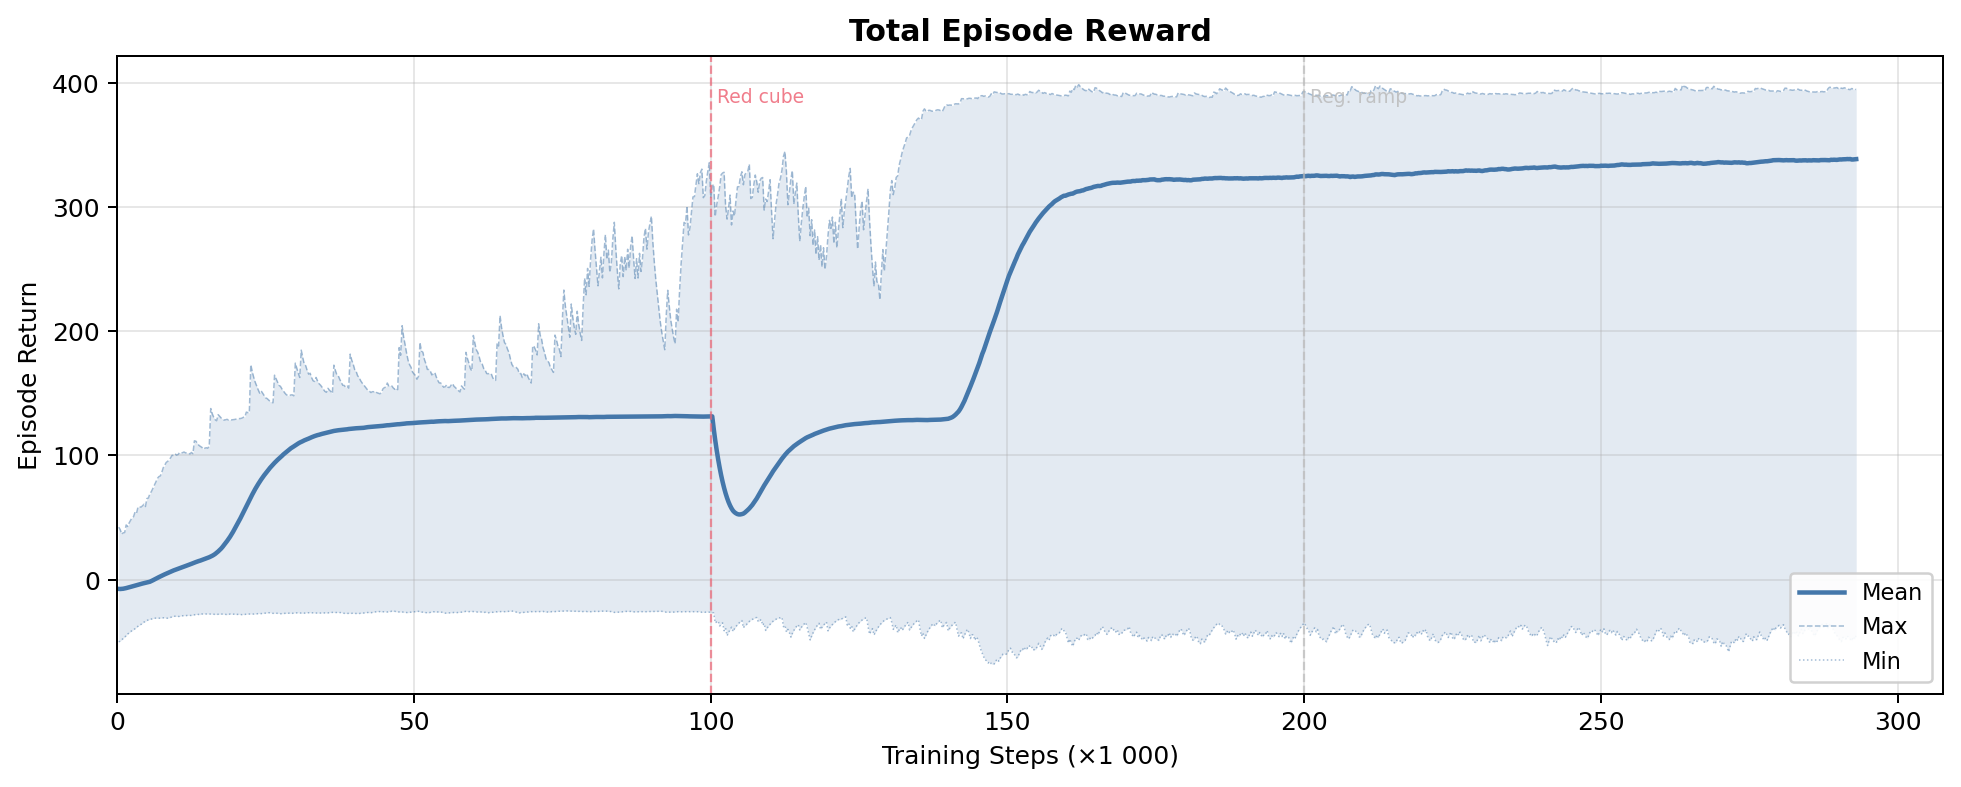
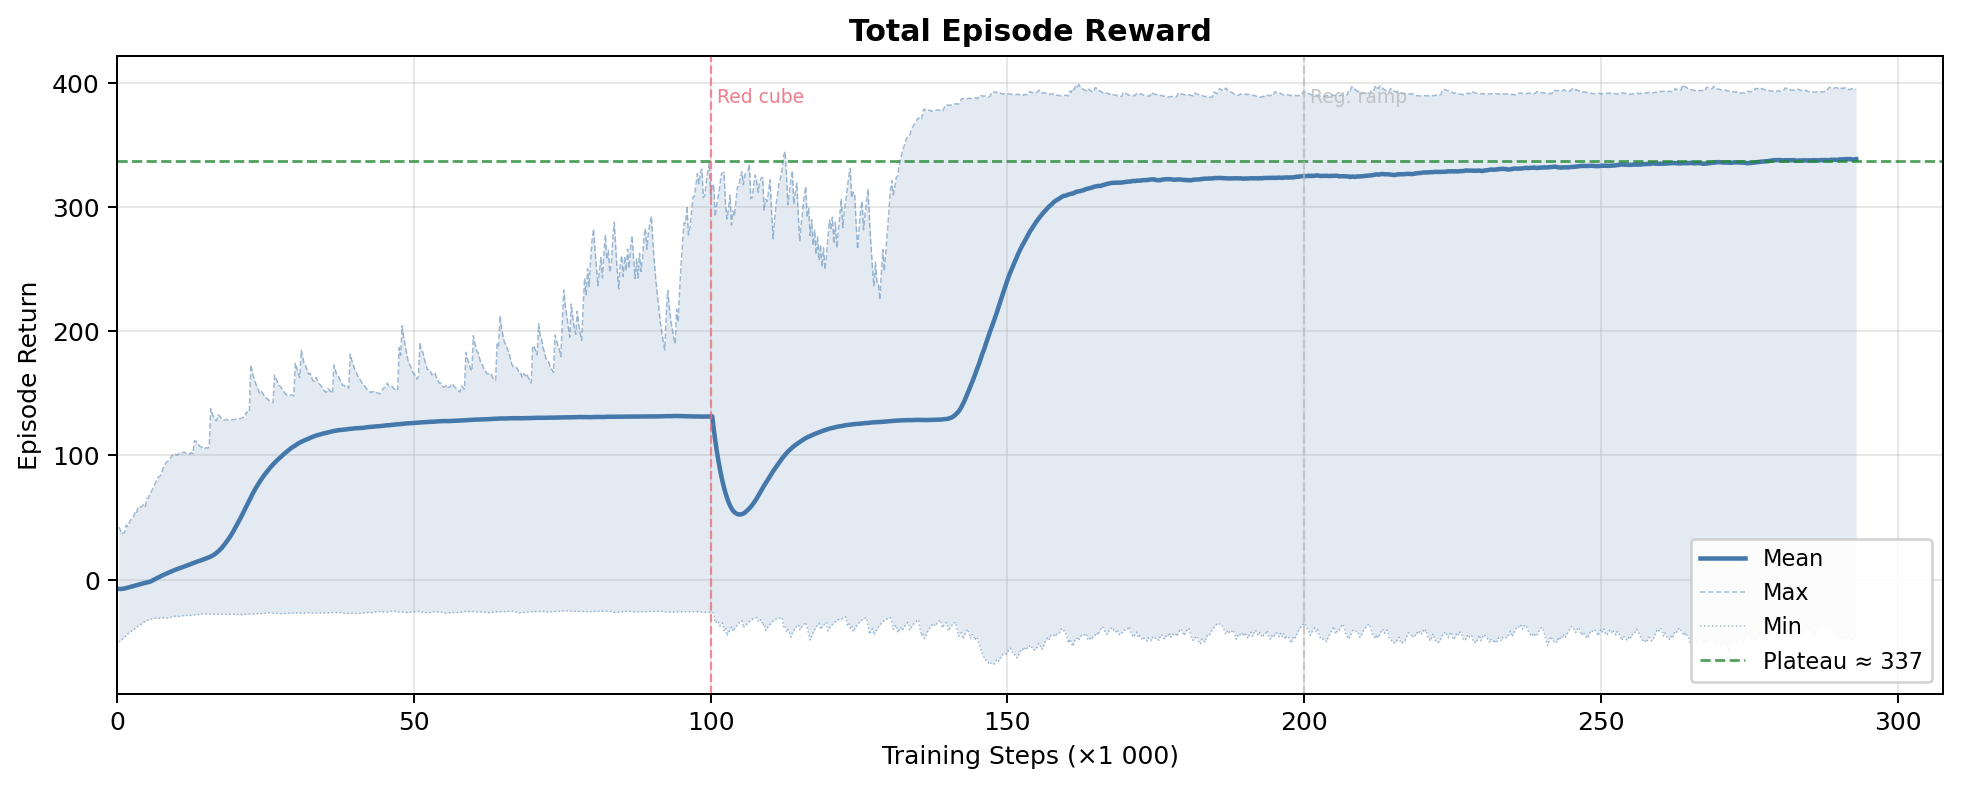
Enhance cube placement task: update metrics for TensorBoard, add episode length tracking, and implement placement success flag in environment

Changed region(s): [[0.8399, 0.6709, 0.9954, 0.8539], [0.871, 0.8539, 0.9021, 0.8844]]

diff --git a/src/tensegrity_pick/source/tensegrity_pick/tensegrity_pick/tasks/manager_based/cube_place/place_env.py b/src/tensegrity_pick/source/tensegrity_pick/tensegrity_pick/tasks/manager_based/cube_place/place_env.py
@@ -16,11 +16,12 @@ from isaaclab.envs import ManagerBasedRLEnv, ManagerBasedRLEnvCfg
 from isaaclab.utils.math import quat_apply
 
 from .place_scene_cfg import CONVEYOR_SURFACE_HEIGHT_M
-from .mdp.rewards import GRASP_CENTER_LOCAL_Z
+from .mdp.rewards import GRASP_CENTER_LOCAL_Z, BinCylinder, _in_upright_cylinder, _get_world_pos
 
 
 EE_BODY_CANDIDATES = ("tool_link_0", "robotiq_base_link", "end_effector_link")
 GREEN_CUBE_KEY = "green_cube"
+DRUM_KEY = "drum_target"
 FINGER_JOINT_NAME = "finger_joint"
 
 # Physics-based grasp detection thresholds
@@ -30,6 +31,9 @@ GRASP_PROXIMITY_THRESHOLD = 0.10
 GRASP_LIFT_THRESHOLD = 0.06
 GRASP_MIN_CLOSURE = 0.20  # ~25% of 0.7854; reject open-gripper bumps
 BELT_HEIGHT = CONVEYOR_SURFACE_HEIGHT_M
+
+# Drum geometry — must match _BIN_GEOM in place_env_cfg.py
+_DRUM_GEOM = BinCylinder(radius=0.547 * 0.5, height=0.30)
 
 
 class TensegrityPlaceEnv(ManagerBasedRLEnv):
@@ -52,6 +56,10 @@ class TensegrityPlaceEnv(ManagerBasedRLEnv):
         # this episode.  Prevents reward-hacking (pushing cube into drum
         # without grasping).
         self._was_grasped = torch.zeros(self.num_envs, dtype=torch.bool, device=self.device)
+
+        # Latched flag: True once the green cube entered the drum this episode
+        # (after a valid grasp).  Used as a per-episode binary placement metric.
+        self._was_placed = torch.zeros(self.num_envs, dtype=torch.bool, device=self.device)
 
     # ------------------------------------------------------------------
     # Grasp centre helper
@@ -94,18 +102,32 @@ class TensegrityPlaceEnv(ManagerBasedRLEnv):
         """Per-env bool: True once the cube has been grasped this episode."""
         return self._was_grasped
 
+    @property
+    def was_placed(self) -> torch.Tensor:
+        """Per-env bool: True once the green cube entered the drum this episode."""
+        return self._was_placed
+
+    def _green_in_drum(self) -> torch.Tensor:
+        """Per-env bool: True when the green cube is currently inside the drum."""
+        green = self.scene[GREEN_CUBE_KEY]
+        drum_pos = _get_world_pos(self.scene[DRUM_KEY], env=self)
+        return _in_upright_cylinder(green.data.root_pos_w, drum_pos, _DRUM_GEOM)
+
     # ------------------------------------------------------------------
-    # Override _step_impl to update latched grasp flag
+    # Override _step_impl to update latched flags
     # ------------------------------------------------------------------
 
     def step(self, action: torch.Tensor):
-        """Standard step with grasp-latch update after physics."""
+        """Standard step with grasp- and place-latch update after physics."""
         obs, reward, terminated, time_outs, extras = super().step(action)
-        # Update latched grasp flag only for envs that are still running.
+        # Update latched flags only for envs that are still running.
         # Terminated/timed-out envs have already been reset inside
         # super().step(), so their post-reset state must not re-latch.
         still_running = ~(terminated | time_outs)
         self._was_grasped[still_running] |= self.grasp_active[still_running]
+        self._was_placed[still_running] |= (
+            self._green_in_drum() & self._was_grasped
+        )[still_running]
         return obs, reward, terminated, time_outs, extras
 
     # ------------------------------------------------------------------
@@ -124,12 +146,15 @@ class TensegrityPlaceEnv(ManagerBasedRLEnv):
         mean_ep_len = torch.tensor(0.0, device=self.device)
         if len(env_ids_t) > 0:
             grasp_rate = self._was_grasped[env_ids_t].float().mean()
+            place_rate = self._was_placed[env_ids_t].float().mean()
             mean_ep_len = self.episode_length_buf[env_ids_t].float().mean()
 
         result = super()._reset_idx(env_ids)
         self._was_grasped[env_ids_t] = False
+        self._was_placed[env_ids_t] = False
 
         # ── Inject custom scalars AFTER super (which creates extras["log"]) ──
         self.extras["log"]["Metrics/grasp_rate"] = grasp_rate
+        self.extras["log"]["Metrics/place_success_rate"] = place_rate
         self.extras["log"]["Metrics/mean_episode_length"] = mean_ep_len
         return result

diff --git a/src/tensegrity_pick/source/tensegrity_pick/tensegrity_pick/tasks/manager_based/cube_place/README.md b/src/tensegrity_pick/source/tensegrity_pick/tensegrity_pick/tasks/manager_based/cube_place/README.md
@@ -222,11 +222,14 @@ flowchart TD
 
 ### Metrics (tiny weight, for TensorBoard)
 
-| Term | Weight | Tracks |
-|---|---|---|
-| `metric_place_success` | +0.01 | Binary success rate |
-| `metric_grasp_rate` | +0.01 | Green cube grasped and lifted |
-| `metric_ee_distance` | −0.01 | EE-to-green L2 distance |
+| Term | Weight | Tracks | TensorBoard tag |
+|---|---|---|---|
+| `metric_place_success` | +0.01 | Per-step: cube inside drum (→ "Time in Drum %") | `Episode_Reward/metric_place_success` |
+| `metric_grasp_rate` | +0.01 | Per-step: cube grasped and lifted | `Episode_Reward/metric_grasp_rate` |
+| `metric_ee_distance` | −0.01 | EE-to-green L2 distance | `Episode_Reward/metric_ee_distance` |
+| — | — | Per-episode: ≥1 grasp this episode (→ "Grasp Rate %") | `Metrics/grasp_rate` |
+| — | — | Per-episode: ≥1 step with cube in drum (→ "Place Success Rate %") | `Metrics/place_success_rate` |
+| — | — | Mean episode length in control steps | `Metrics/mean_episode_length` |
 
 ## Terminations
 
@@ -369,23 +372,36 @@ conda run --no-capture-output -n env_isaaclab python3 scripts/skrl/play.py \
 Results from training run `2026-03-06_21-05-45` (PPO, 8 192 envs, 293k steps), Tensegrity PD variant.
 Plots generated with `scripts/plot_place_training_results.py --variant tensegrity`.
 
+### Key Performance Numbers
+
+| Metric | Converged Value | Notes |
+|---|---|---|
+| **Grasp Rate** | **96.7 %** | % of episodes with ≥1 successful grasp-and-lift (last 10 % of training) |
+| **Place Success Rate** | n/a for this run | % of episodes where cube entered drum ≥1 step; tracked from `was_placed` latch — available in future runs |
+| **Time in Drum** | **13.9 %** of steps (~35 / 250) | Average fraction of episode steps with cube inside drum; proxy for placement timing |
+| **Reward Plateau** | **337** | Mean total episode return averaged over last 10 % of training |
+| **Avg. Episode Length** | **248 steps** | Out of max 250; near-zero early terminations at convergence |
+| **Training Duration** | **293k steps** | ~1 h wall-clock with 8 192 parallel envs on a single GPU |
+
 ### Total Episode Reward
 
 The total reward curve shows the complete learning trajectory.  The min/max
 envelope reveals the spread across the environment population.  Two curriculum
 events are marked: the red distractor cube introduction at 100k steps causes a
 brief reward crash (~365 → ~55), and the regularisation ramp begins at 200k
-steps.
+steps.  The green dashed line marks the convergence plateau at **≈ 337**.
 
 ![Total Reward](figures/tensegrity/01_total_reward.png)
 
 ### Task Success
 
-Grasp rate (left axis) and green-in-target reward (right axis) track the two
-key task milestones.  The agent learns to grasp within the first 10k steps and
-achieves consistent placement around 150k steps.  The red cube introduction at
-100k causes a temporary dip in both metrics as the agent adapts to the
-distractor.
+All three success metrics on a common percentage axis:
+
+- **Grasp Rate** — fraction of episodes with at least one successful grasp-and-lift event; reaches ~97 % by 50k steps.
+- **Time in Drum** — average fraction of episode steps with the green cube inside the drum; rises to ~14 % at convergence, meaning the agent deposits the cube with roughly 35 steps remaining per episode.
+- **Place Success Rate** — fraction of episodes where the cube entered the drum at least once (binary, per-episode); only available for runs after the `was_placed` latch was added to `place_env.py`.
+
+The red cube introduction at 100k steps causes a brief dip in all metrics as the agent adapts to the distractor.
 
 ![Task Success](figures/tensegrity/02_task_success.png)
 
@@ -429,6 +445,16 @@ component — a known consequence of manipulating cubes near the belt edge.
 
 ![Converged Breakdown](figures/tensegrity/06_converged_breakdown.png)
 
+### Average Episode Length
+
+Mean control steps per episode over training.  Early in training, frequent
+early terminations (joint velocity divergence, belt collisions) keep episodes
+short (~80–115 steps).  As the policy stabilises the episode length converges
+to **≈ 248 steps** — effectively full 250-step episodes — indicating that
+early-termination events become negligible at convergence.
+
+![Episode Length](figures/tensegrity/07_episode_length.png)
+
 ### Regenerating Plots
 
 ```bash
@@ -450,6 +476,7 @@ conda run --no-capture-output -n env_isaaclab python3 scripts/plot_place_trainin
 ```
 
 Figures are saved to `figures/<variant>/` (e.g., `figures/tensegrity/01_total_reward.png`).
+Seven figures are generated per run: 01–06 (reward/policy diagnostics) plus 07 (episode length).
 
 ## Related
 
